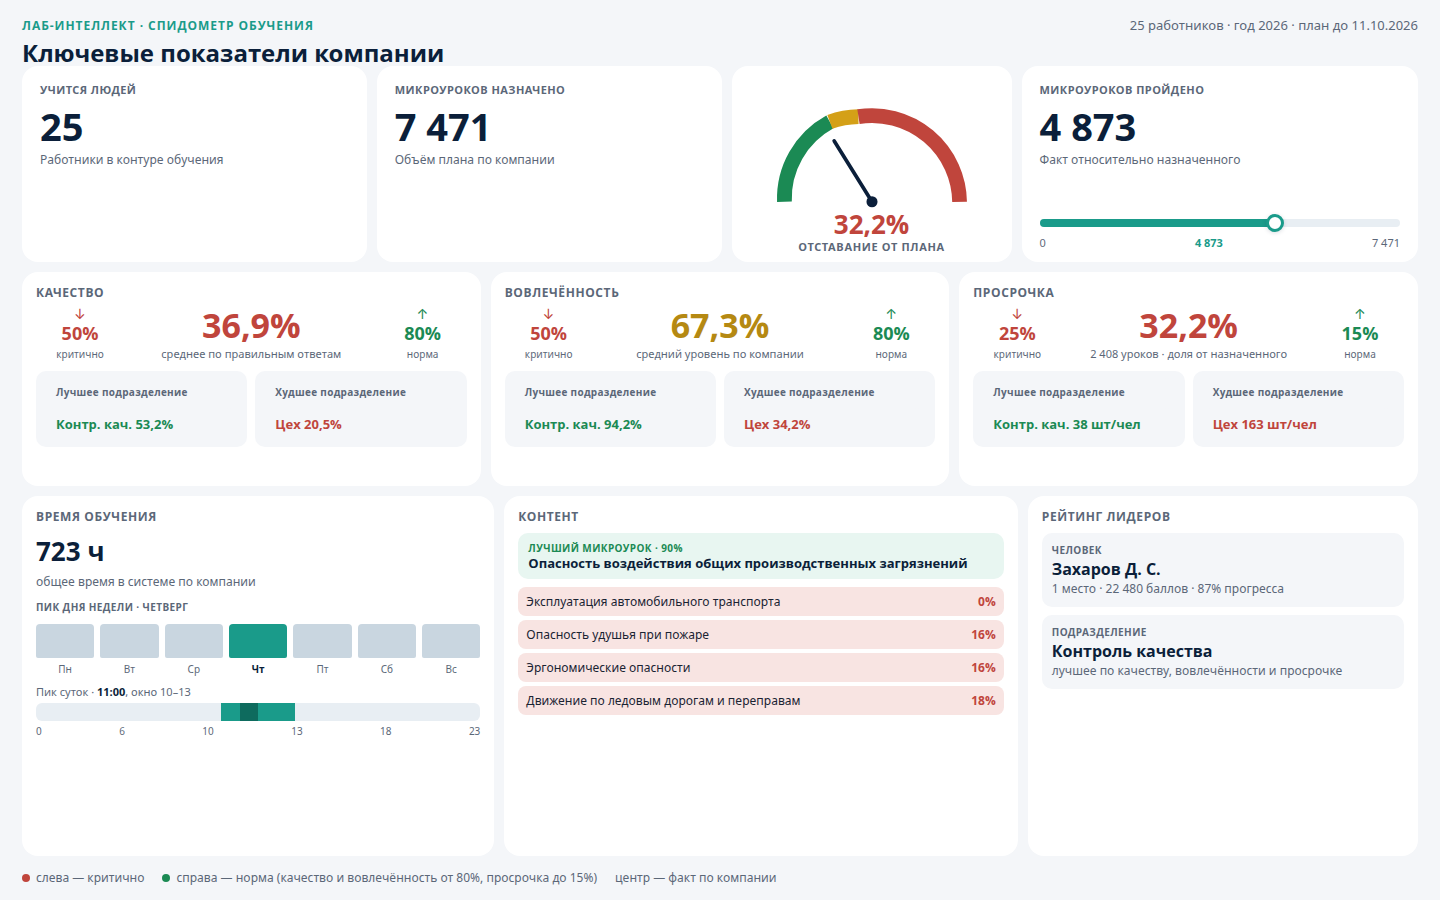
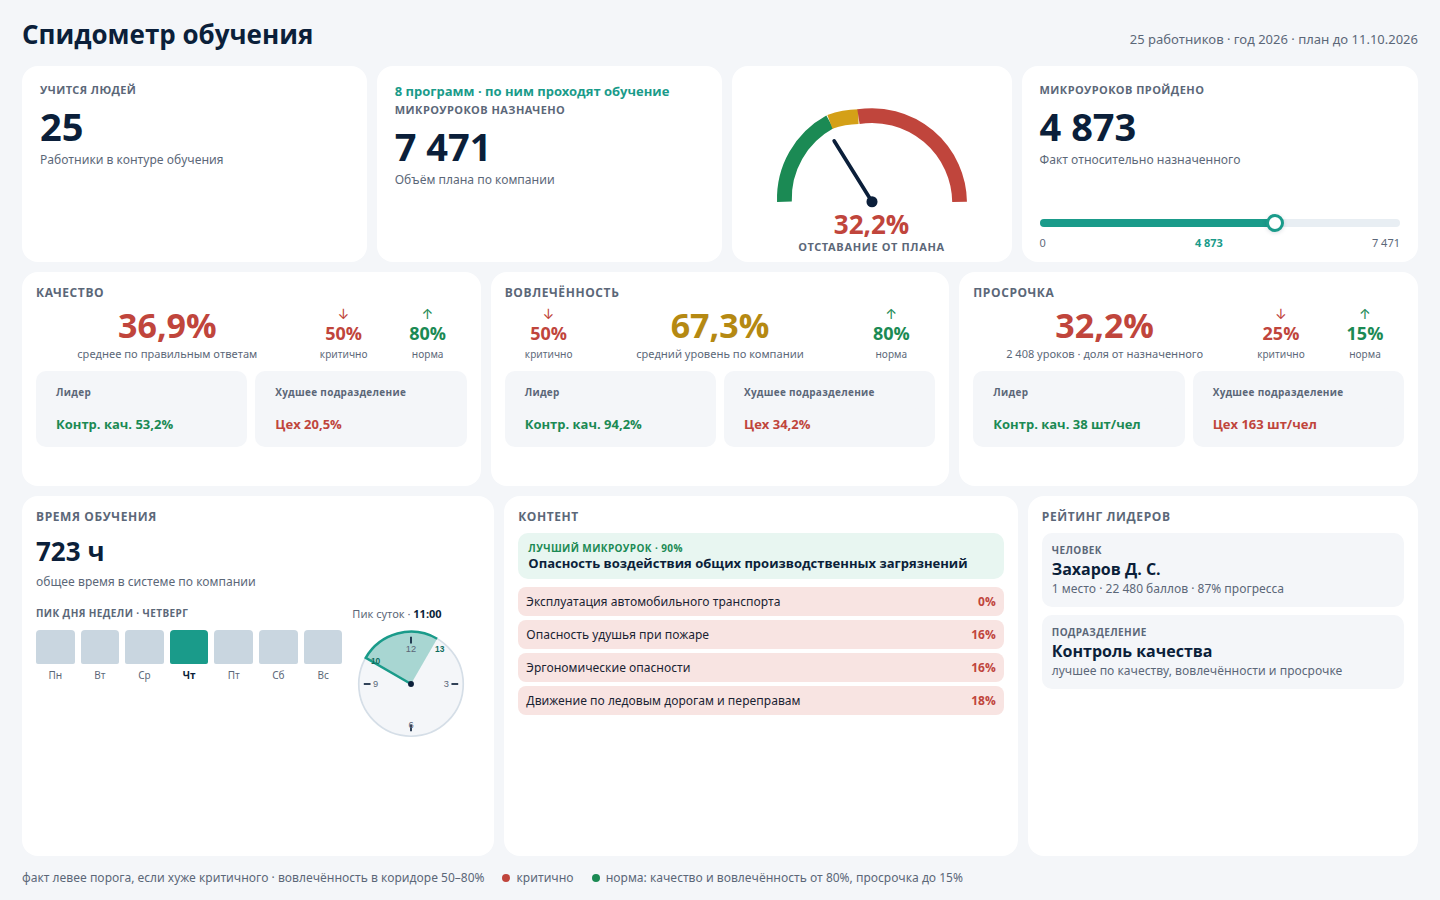
Adjust the speedometer header: programs, fact position, clock, leader label.
Show program count above assigned lessons, drop the Lab-Intellekt title, place quality and overdue facts left of the critical mark, use an analog clock for the daily peak, and rename the best department to Leader.

diff --git a/issledovaniya/vizualy/spidometr-obucheniya.html b/issledovaniya/vizualy/spidometr-obucheniya.html
@@ -23,8 +23,11 @@
       display: grid; grid-template-rows: 40px 196px 214px 1fr 22px; gap: 10px;
     }
     .top { display: flex; align-items: baseline; justify-content: space-between; }
-    .kicker { color: var(--teal); font-size: 12px; font-weight: 700; letter-spacing: .08em; }
-    h1 { margin: 2px 0 0; font-size: 24px; color: var(--navy); }
+    .top h1 { margin: 0; font-size: 26px; color: var(--navy); }
+    .prog {
+      font-size: 13px; font-weight: 700; color: var(--teal); margin-bottom: 2px;
+    }
+    .time-grid { display: grid; grid-template-columns: 1fr 128px; gap: 10px; align-items: start; margin-top: 8px; }
     .meta { color: var(--muted); font-size: 13px; text-align: right; }
     .card { background: var(--white); border-radius: 16px; }
     .hero { display: grid; grid-template-columns: 1fr 1fr 280px 1.15fr; gap: 10px; }
@@ -50,6 +53,7 @@
     .metric { padding: 12px 14px 12px; }
     .metric h2 { margin: 0; font-size: 12px; font-weight: 700; letter-spacing: .05em; text-transform: uppercase; color: var(--muted); }
     .tri { display: grid; grid-template-columns: 88px 1fr 88px; align-items: center; gap: 6px; margin-top: 6px; }
+    .tri.left-fact { grid-template-columns: 1.35fr 78px 78px; }
     .side { text-align: center; }
     .side .arr { font-size: 14px; line-height: 1; }
     .side .val { font-size: 18px; font-weight: 700; }
@@ -105,10 +109,7 @@
 <body>
   <div class="board">
     <div class="top">
-      <div>
-        <div class="kicker">ЛАБ-ИНТЕЛЛЕКТ · СПИДОМЕТР ОБУЧЕНИЯ</div>
-        <h1>Ключевые показатели компании</h1>
-      </div>
+      <h1>Спидометр обучения</h1>
       <div class="meta">25 работников · год 2026 · план до 11.10.2026</div>
     </div>
 
@@ -119,6 +120,7 @@
         <div class="s">Работники в контуре обучения</div>
       </div>
       <div class="card kpi">
+        <div class="prog">8 программ · по ним проходят обучение</div>
         <div class="t">Микроуроков назначено</div>
         <div class="n">7 471</div>
         <div class="s">Объём плана по компании</div>
@@ -151,15 +153,15 @@
     <div class="row3">
       <div class="card metric">
         <h2>Качество</h2>
-        <div class="tri">
+        <div class="tri left-fact">
+          <div class="mid red">
+            <div class="big">36,9%</div>
+            <div class="hint">среднее по правильным ответам</div>
+          </div>
           <div class="side bad">
             <div class="arr">↓</div>
             <div class="val">50%</div>
             <div class="cap">критично</div>
-          </div>
-          <div class="mid red">
-            <div class="big">36,9%</div>
-            <div class="hint">среднее по правильным ответам</div>
           </div>
           <div class="side good">
             <div class="arr">↑</div>
@@ -168,7 +170,7 @@
           </div>
         </div>
         <div class="bw">
-          <div class="best"><div class="l">Лучшее подразделение</div><div class="v">Контр. кач. 53,2%</div></div>
+          <div class="best"><div class="l">Лидер</div><div class="v">Контр. кач. 53,2%</div></div>
           <div class="worst"><div class="l">Худшее подразделение</div><div class="v">Цех 20,5%</div></div>
         </div>
       </div>
@@ -191,21 +193,21 @@
           </div>
         </div>
         <div class="bw">
-          <div class="best"><div class="l">Лучшее подразделение</div><div class="v">Контр. кач. 94,2%</div></div>
+          <div class="best"><div class="l">Лидер</div><div class="v">Контр. кач. 94,2%</div></div>
           <div class="worst"><div class="l">Худшее подразделение</div><div class="v">Цех 34,2%</div></div>
         </div>
       </div>
       <div class="card metric">
         <h2>Просрочка</h2>
-        <div class="tri">
+        <div class="tri left-fact">
+          <div class="mid red">
+            <div class="big">32,2%</div>
+            <div class="hint">2 408 уроков · доля от назначенного</div>
+          </div>
           <div class="side bad">
             <div class="arr">↓</div>
             <div class="val">25%</div>
             <div class="cap">критично</div>
-          </div>
-          <div class="mid red">
-            <div class="big">32,2%</div>
-            <div class="hint">2 408 уроков · доля от назначенного</div>
           </div>
           <div class="side good">
             <div class="arr">↑</div>
@@ -214,7 +216,7 @@
           </div>
         </div>
         <div class="bw">
-          <div class="best"><div class="l">Лучшее подразделение</div><div class="v">Контр. кач. 38 шт/чел</div></div>
+          <div class="best"><div class="l">Лидер</div><div class="v">Контр. кач. 38 шт/чел</div></div>
           <div class="worst"><div class="l">Худшее подразделение</div><div class="v">Цех 163 шт/чел</div></div>
         </div>
       </div>
@@ -225,26 +227,38 @@
         <h2>Время обучения</h2>
         <div class="time-num">723 ч</div>
         <div class="s">общее время в системе по компании</div>
-        <div class="s" style="margin-top:10px;font-weight:700;color:#5B6778;text-transform:uppercase;letter-spacing:.04em;font-size:10px">Пик дня недели · четверг</div>
-        <div class="bars">
-          <div class="bar" style="height:100%"><i style="height:92%"></i><span>Пн</span></div>
-          <div class="bar" style="height:100%"><i style="height:86%"></i><span>Вт</span></div>
-          <div class="bar" style="height:100%"><i style="height:89%"></i><span>Ср</span></div>
-          <div class="bar peak" style="height:100%"><i style="height:100%"></i><span>Чт</span></div>
-          <div class="bar" style="height:100%"><i style="height:84%"></i><span>Пт</span></div>
-          <div class="bar" style="height:100%"><i style="height:90%"></i><span>Сб</span></div>
-          <div class="bar" style="height:100%"><i style="height:92%"></i><span>Вс</span></div>
-        </div>
-        <div class="clock-wrap">
-          <div class="clock-lab">Пик суток · <b>11:00</b>, окно 10–13</div>
-          <div class="hours">
-            <span></span><span></span><span></span><span></span><span></span>
-            <span></span><span></span><span></span><span></span><span></span>
-            <span class="on"></span><span class="peak"></span><span class="on"></span><span class="on"></span>
-            <span></span><span></span><span></span><span></span><span></span>
-            <span></span><span></span><span></span><span></span><span></span>
+        <div class="time-grid">
+          <div>
+            <div class="s" style="margin-top:8px;font-weight:700;color:#5B6778;text-transform:uppercase;letter-spacing:.04em;font-size:10px">Пик дня недели · четверг</div>
+            <div class="bars">
+              <div class="bar" style="height:100%"><i style="height:92%"></i><span>Пн</span></div>
+              <div class="bar" style="height:100%"><i style="height:86%"></i><span>Вт</span></div>
+              <div class="bar" style="height:100%"><i style="height:89%"></i><span>Ср</span></div>
+              <div class="bar peak" style="height:100%"><i style="height:100%"></i><span>Чт</span></div>
+              <div class="bar" style="height:100%"><i style="height:84%"></i><span>Пт</span></div>
+              <div class="bar" style="height:100%"><i style="height:90%"></i><span>Сб</span></div>
+              <div class="bar" style="height:100%"><i style="height:92%"></i><span>Вс</span></div>
+            </div>
           </div>
-          <div class="h-labs"><span>0</span><span>6</span><span>10</span><span>13</span><span>18</span><span>23</span></div>
+          <div class="clock-wrap">
+            <div class="clock-lab">Пик суток · <b>11:00</b></div>
+            <svg width="118" height="118" viewBox="0 0 140 140">
+              <circle cx="70" cy="70" r="62" fill="#F4F6F9" stroke="#D5DEE7" stroke-width="2"/>
+              <path d="M70 70 L16.3 39 A62 62 0 0 1 101 16.3 Z" fill="#1A9B8A" opacity="0.35"/>
+              <path d="M70 70 L16.3 39 A62 62 0 0 1 101 16.3" fill="none" stroke="#1A9B8A" stroke-width="3"/>
+              <circle cx="70" cy="70" r="3.5" fill="#0B1F3A"/>
+              <line x1="70" y1="14" x2="70" y2="22" stroke="#0B1F3A" stroke-width="2"/>
+              <line x1="126" y1="70" x2="118" y2="70" stroke="#0B1F3A" stroke-width="2"/>
+              <line x1="70" y1="126" x2="70" y2="118" stroke="#0B1F3A" stroke-width="2"/>
+              <line x1="14" y1="70" x2="22" y2="70" stroke="#0B1F3A" stroke-width="2"/>
+              <text x="70" y="32" text-anchor="middle" font-size="11" fill="#5B6778" font-family="Calibri, sans-serif">12</text>
+              <text x="112" y="74" text-anchor="middle" font-size="11" fill="#5B6778" font-family="Calibri, sans-serif">3</text>
+              <text x="70" y="122" text-anchor="middle" font-size="11" fill="#5B6778" font-family="Calibri, sans-serif">6</text>
+              <text x="28" y="74" text-anchor="middle" font-size="11" fill="#5B6778" font-family="Calibri, sans-serif">9</text>
+              <text x="28" y="46" text-anchor="middle" font-size="10" font-weight="700" fill="#0E6B5E" font-family="Calibri, sans-serif">10</text>
+              <text x="104" y="32" text-anchor="middle" font-size="10" font-weight="700" fill="#0E6B5E" font-family="Calibri, sans-serif">13</text>
+            </svg>
+          </div>
         </div>
       </div>
       <div class="card block">
@@ -276,9 +290,9 @@
     </div>
 
     <div class="legend">
-      <span><i class="dot" style="background:#C0453C"></i>слева — критично</span>
-      <span><i class="dot" style="background:#1B8A54"></i>справа — норма (качество и вовлечённость от 80%, просрочка до 15%)</span>
-      <span>центр — факт по компании</span>
+      <span>факт левее порога, если хуже критичного · вовлечённость в коридоре 50–80%</span>
+      <span><i class="dot" style="background:#C0453C"></i>критично</span>
+      <span><i class="dot" style="background:#1B8A54"></i>норма: качество и вовлечённость от 80%, просрочка до 15%</span>
     </div>
   </div>
 </body>
